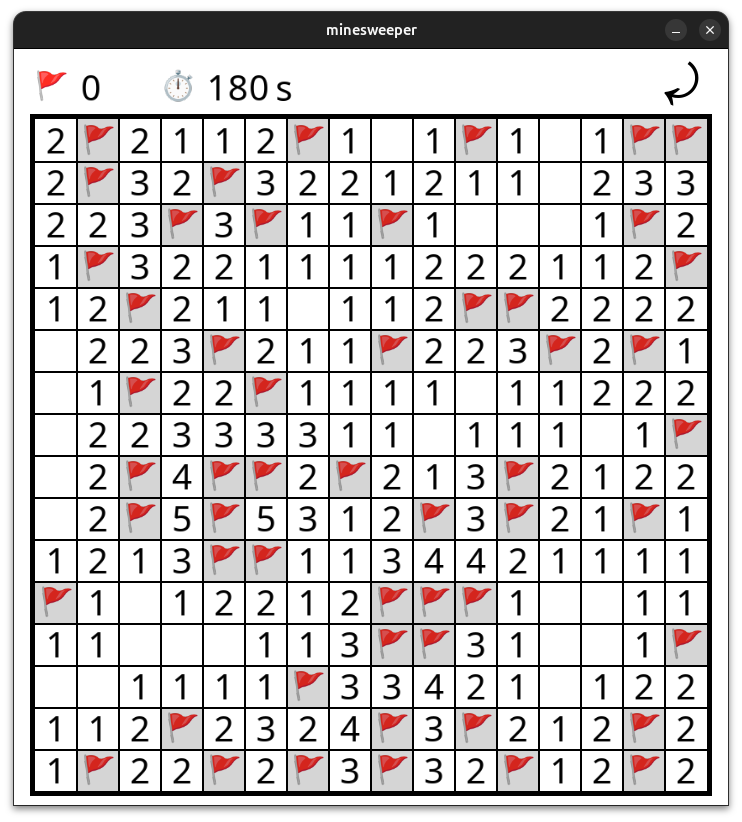
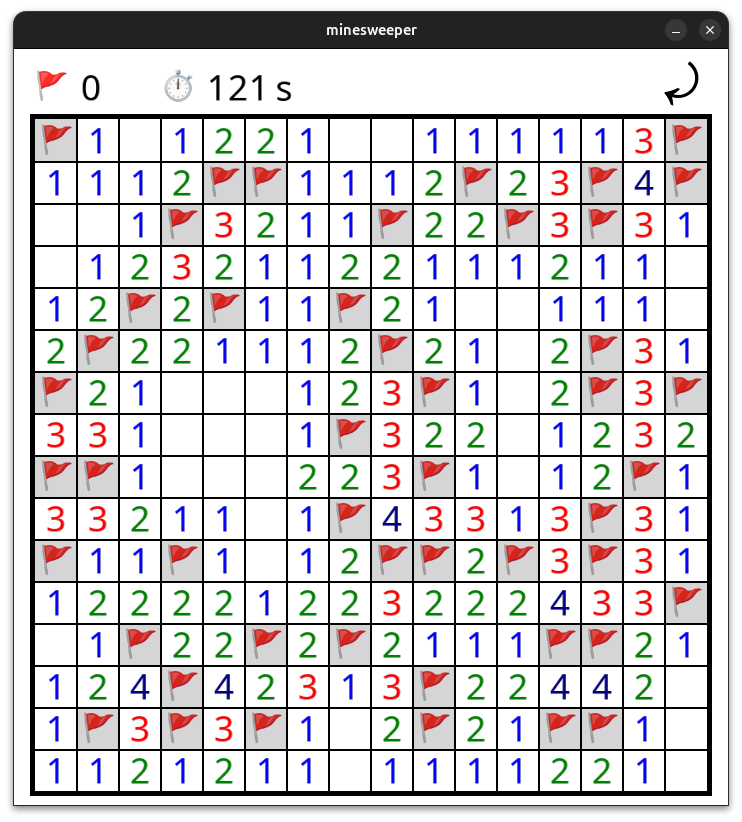
updated preview image and game logic, adjusted game loop sleep value

diff --git a/srcs/help.c b/srcs/help.c
@@ -4,7 +4,7 @@ void	help(void)
 {
 	writeStr("Usage: './minesweeper [map width] [map height] [bomb percentage]'\n", 1);
 	writeStr("Map values must be set from 16 to 21.\n", 1);
-	writeStr("Bomb percentage must be set from 1 to 60.\n", 1);
+	writeStr("Bomb percentage must be set from 1 to 20.\n", 1);
 }
 
 bool	isHelp(const char** argv)

diff --git a/srcs/main.c b/srcs/main.c
@@ -19,7 +19,7 @@ bool	validateArguments(const int argc, const char** argv)
 
 	if (argc == 4)
 	{
-		if (atoi(argv[3]) <= 0 || atoi(argv[3]) > 60)
+		if (atoi(argv[3]) <= 0 || atoi(argv[3]) > 20)
 			return (false);
 	}
 

diff --git a/srcs/core/core.c b/srcs/core/core.c
@@ -70,6 +70,6 @@ void	startGame(tInfos* infos)
 
 		displayGame(infos);
 
-		usleep(250);
+		usleep(1000);
 	}
 }
